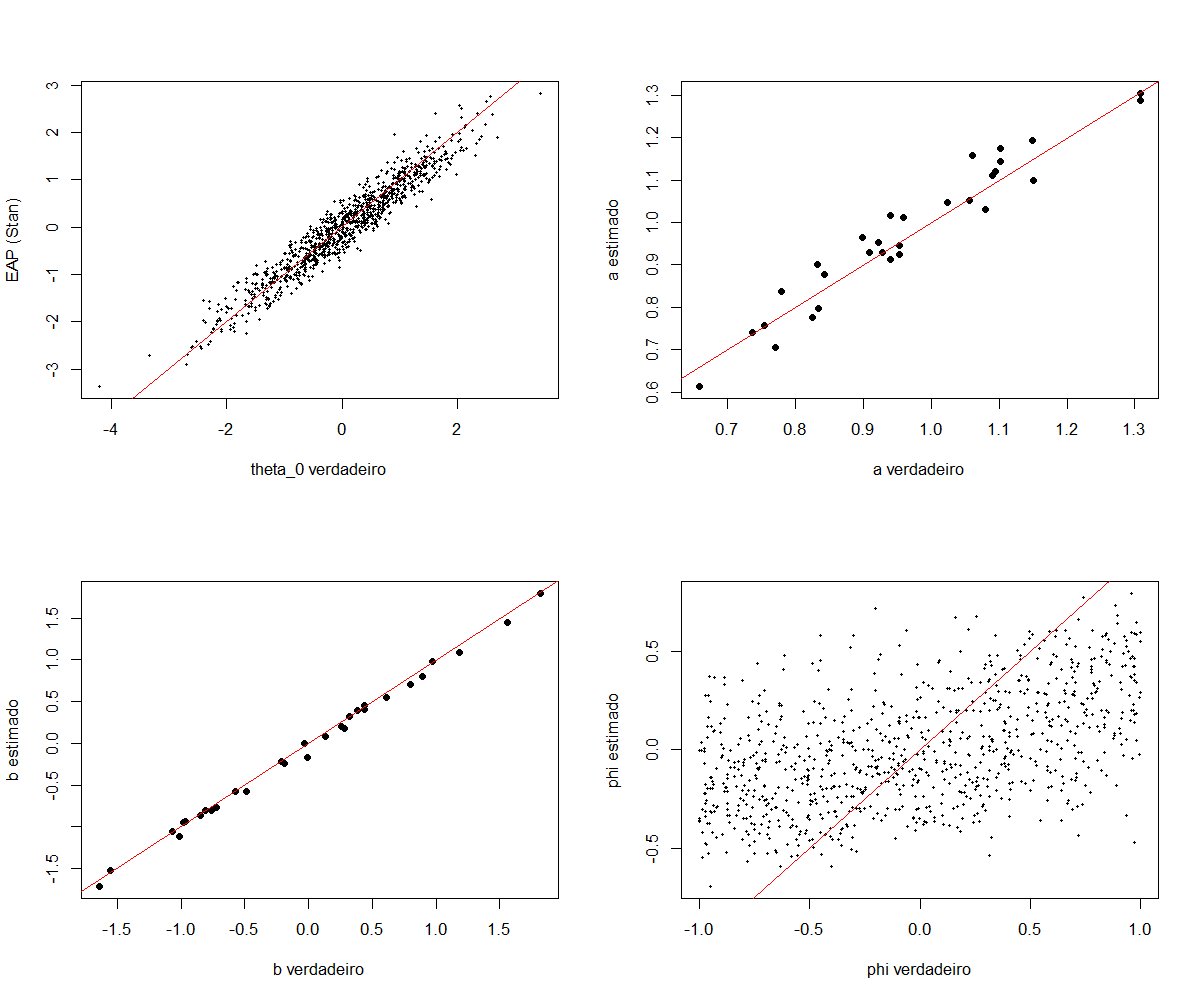
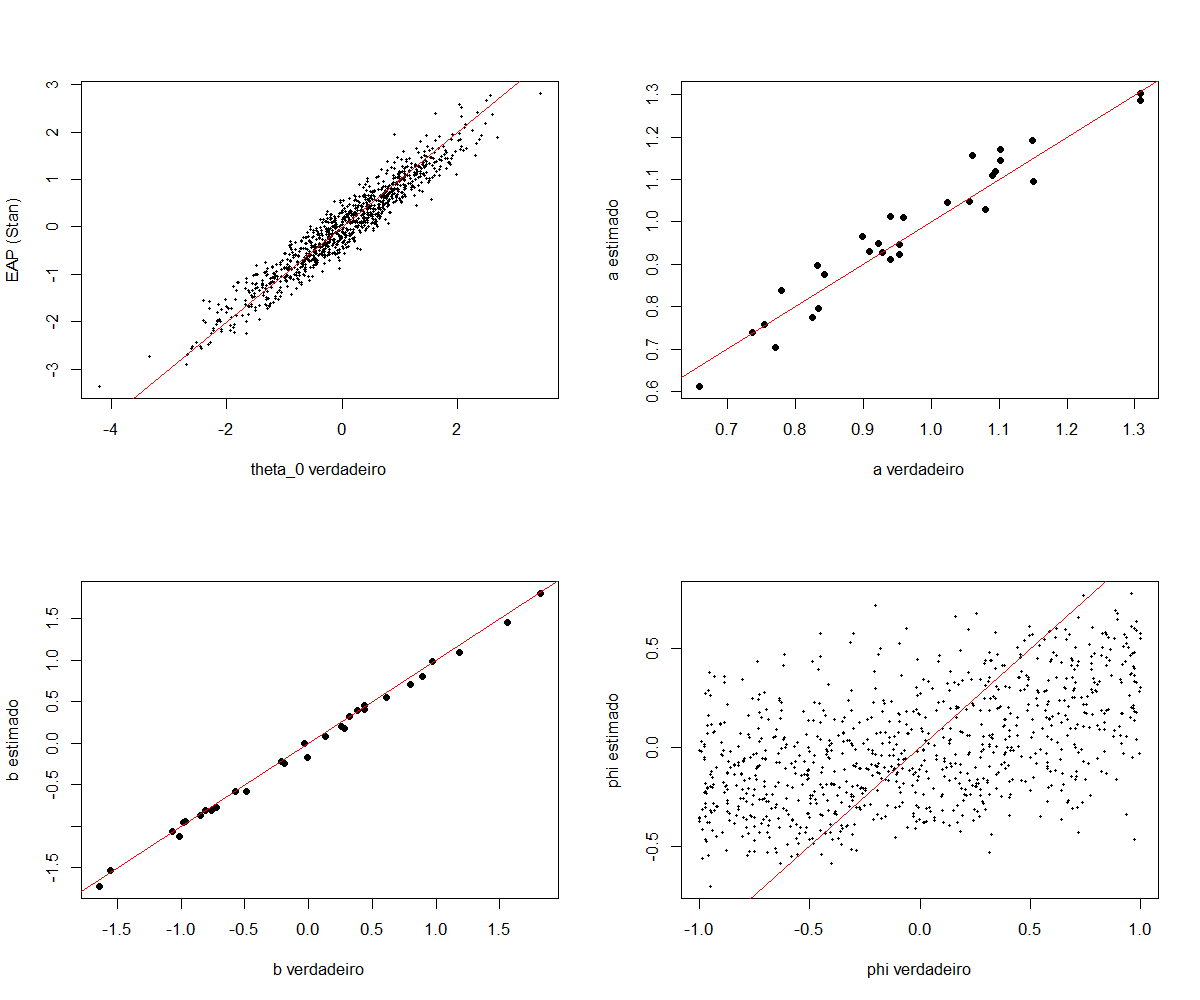
Muda a prior de b para N(0, 5) e salva o traceplot

diff --git a/README.md b/README.md
@@ -31,7 +31,7 @@ A tabela abaixo traz os valores usados para gerar os dados e as priors do modelo
 | $\delta_{hm}$ | efeito humano-máquina | 0,5 | half-normal(0, 1) |
 | $\delta_h$ | efeito humano, comum a todos | 0,1 | $N(0, 1)$ |
 | $a_j$ | discriminação do item | lognormal(0; 0,18) | lognormal(0; 0,5) |
-| $b_j$ | dificuldade do item | $N(0, 1)$ | $N(0, 2)$ |
+| $b_j$ | dificuldade do item | $N(0, 1)$ | $N(0, 5)$ |
 
 ## Como reproduzir
 
@@ -50,17 +50,17 @@ O ajuste completo do Stan (`output/fit_stan.rds`, cerca de 120 MB) passa do limi
 
 ## Resultados e discussão (uma réplica, `seed = 15`)
 
-O ajuste do Stan convergiu sem transições divergentes, com $\hat{R}$ máximo de 1,007 e tamanho efetivo de amostra (ESS) mínimo perto de 515. Os dois efeitos globais foram bem recuperados: o efeito humano-máquina ($\delta_{hm}$, valor verdadeiro 0,5) teve média a posteriori de 0,489, com intervalo de credibilidade de 90% de 0,418 a 0,560, e o efeito humano ($\delta_h$, valor verdadeiro 0,1) ficou em 0,101, de 0,081 a 0,121. Para os outros parâmetros, a tabela compara as estimativas com os valores verdadeiros (correlação, viés e RMSE) e mostra, no Stan, a cobertura dos intervalos de 90%.
+O ajuste do Stan convergiu sem transições divergentes, com $\hat{R}$ máximo de 1,009 e tamanho efetivo de amostra (ESS) mínimo perto de 500. Os dois efeitos globais foram bem recuperados: o efeito humano-máquina ($\delta_{hm}$, valor verdadeiro 0,5) teve média a posteriori de 0,492, com intervalo de credibilidade de 90% de 0,422 a 0,561, e o efeito humano ($\delta_h$, valor verdadeiro 0,1) ficou em 0,101, de 0,081 a 0,121. Para os outros parâmetros, a tabela compara as estimativas com os valores verdadeiros (correlação, viés e RMSE) e mostra, no Stan, a cobertura dos intervalos de 90%.
 
 | Parâmetro | Método | Correlação | Viés | RMSE | Cobertura |
 |---|---|---:|---:|---:|---:|
 | $\theta_0$ | mirt | 0,917 | −0,037 | 0,412 | — |
-| $\theta_0$ | Stan | 0,959 | −0,037 | 0,292 | 0,905 |
+| $\theta_0$ | Stan | 0,959 | −0,038 | 0,292 | 0,901 |
 | $a$ | mirt | 0,870 | 0,040 | 0,100 | — |
-| $a$ | Stan | 0,967 | 0,012 | 0,045 | 0,967 |
+| $a$ | Stan | 0,966 | 0,010 | 0,045 | 0,967 |
 | $b$ | mirt | 0,994 | −0,032 | 0,101 | — |
-| $b$ | Stan | 0,998 | −0,039 | 0,065 | 0,933 |
-| $\phi$ (só quem usa a máquina) | Stan | 0,504 | 0,032 | 0,506 | 0,885 |
+| $b$ | Stan | 0,998 | −0,041 | 0,065 | 0,933 |
+| $\phi$ (só quem usa a máquina) | Stan | 0,504 | 0,032 | 0,506 | 0,882 |
 
 ![Recuperação dos parâmetros no Stan](output/recuperacao_stan.png)
 
